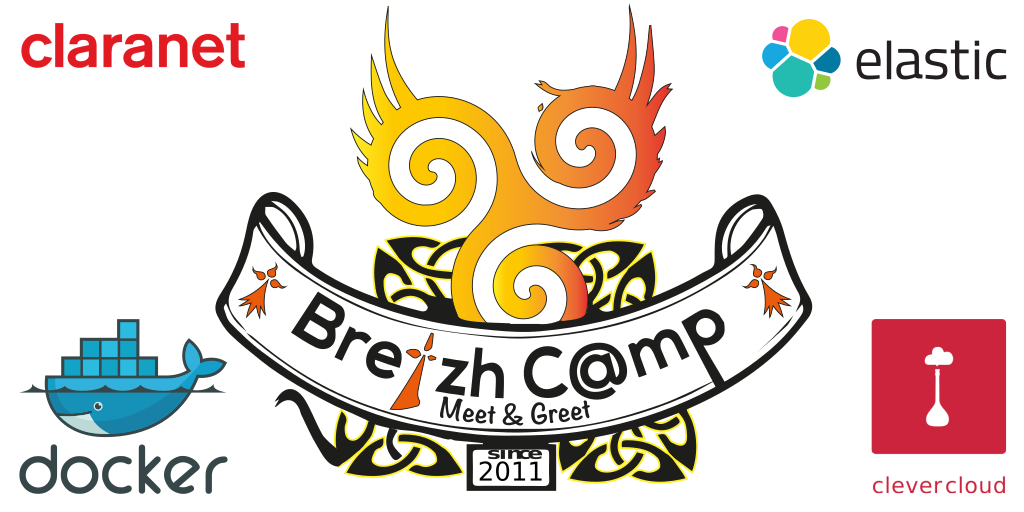
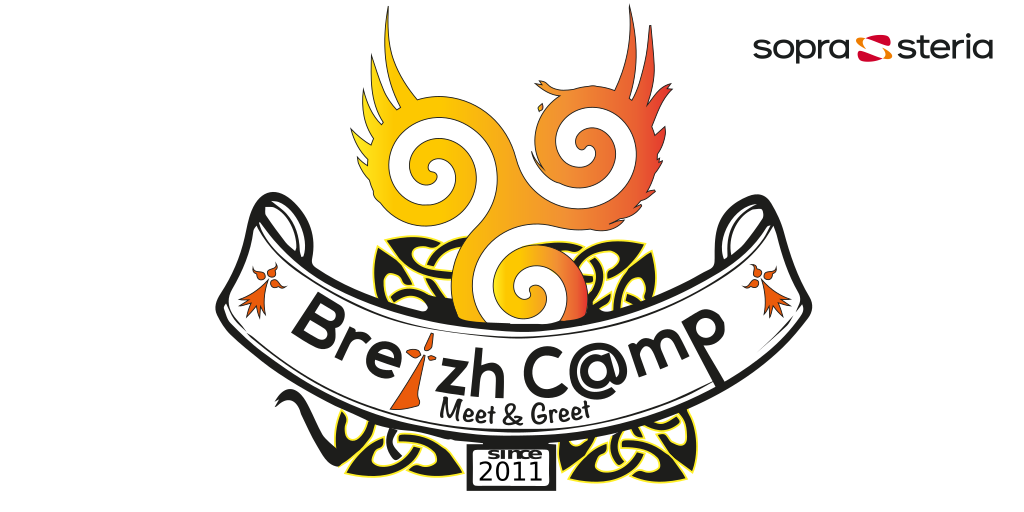
Image Meet & Greet 2018 : Sponsor Sopra

diff --git a/content/conference/_index.md b/content/conference/_index.md
@@ -17,9 +17,10 @@ Si vous n'étiez pas là les années précédentes, la formule est simple : jeud
 
 Nous remercions les sponsors du Meet & Greet qui vous offrent cette soirée conviviale !
 
-{{< comment >}}
-![image alt text](/img/meetandgreet.png)
-{{< /comment >}}
+<center>
+![Meet & Greet](/img/meetandgreet.png)
+</center>
+
 
 # Un code de conduite ?
 
